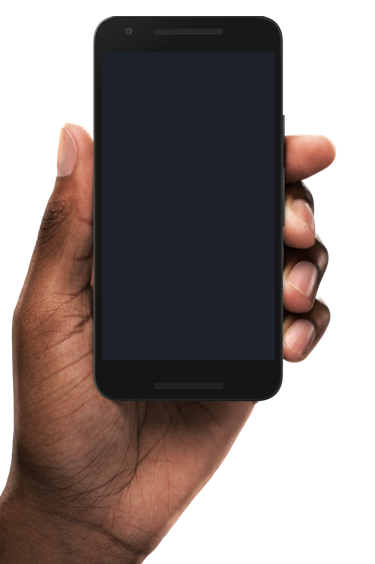
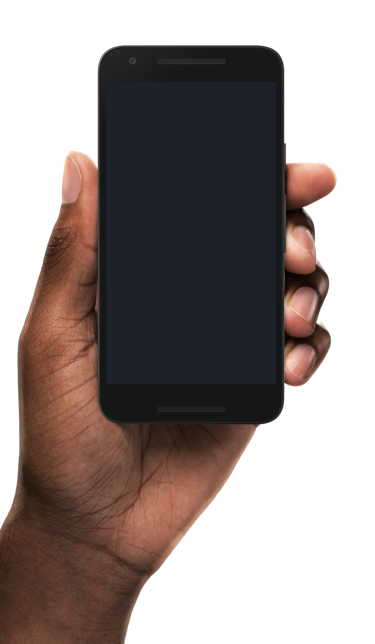
📱🖥 Fix mobile and desktop layouts

Changed region(s): [[0.0, 0.0301, 0.9093, 1.0], [0.0293, 0.9645, 0.2053, 1.0]]

diff --git a/css/main.css b/css/main.css
@@ -52,7 +52,6 @@ _:-ms-input-placeholder,
   font-family: 'Noto Sans Regular', -apple-system, BlinkMacSystemFont, 'Segoe UI', 'Roboto', 'Oxygen', 'Ubuntu', 'Cantarell', 'Fira Sans', 'Droid Sans', 'Helvetica Neue', sans-serif;
 }
 header,
-footer,
 .content {
   padding: 0 1.5rem;
 }
@@ -181,11 +180,14 @@ picture.hand {
 img {
   width: 100%;
   height: 100%;
-  -o-object-fit: contain;
-  object-fit: contain;
+  -o-object-fit: cover;
+  object-fit: cover;
 }
 .hand > img {
-  margin-top: 2vh;
+  margin: 0;
+  padding: 0;
+  -o-object-position: 0 40%;
+  object-position: 0 40%;
 }
 footer {
   -webkit-flex-shrink: 0.5;
@@ -197,9 +199,74 @@ footer > p {
   margin: 0;
 }
 .landing {
+  display: -webkit-box;
+  display: -webkit-flex;
+  display: -ms-flexbox;
+  display: flex;
+}
+.wrapper {
   height: 50vh;
 }
-.landing ~ footer {
+.landing > footer {
   height: 100vh;
   padding: 0;
+}
+/* Media Queries */
+@media (max-width: 20rem) {
+  .hand {
+    -o-object-fit: cover;
+    object-fit: cover;
+  }
+  .hand > img {
+    -o-object-position: 55% 0;
+    object-position: 55% 0;
+  }
+  .pseudo-button {
+    font-size: 0.75rem;
+  }
+}
+@media (max-height: 34rem) {
+  .hand > img {
+    -o-object-position: 55% -250%;
+    object-position: 55% -250%;
+  }
+}
+@media (min-width: 64rem) {
+  footer {
+    padding: 4rem 10vw 1.5rem;
+  }
+  .landing {
+    -webkit-box-orient: horizontal;
+    -webkit-box-direction: normal;
+    -webkit-flex-direction: row;
+    -ms-flex-direction: row;
+    flex-direction: row;
+    -webkit-box-pack: space-evenly;
+    -webkit-justify-content: space-evenly;
+    -ms-flex-pack: space-evenly;
+    justify-content: space-evenly;
+  }
+  .landing .wrapper {
+    -webkit-box-flex: 0;
+    -webkit-flex: 0 1 auto;
+    -ms-flex: 0 1 auto;
+    flex: 0 1 auto;
+    height: 100vh;
+    padding: 0;
+  }
+  .landing footer {
+    padding: 0;
+  }
+  .landing header,
+  .landing .content {
+    padding: 0 5vw;
+  }
+  header,
+  .content {
+    padding: 0 10vw;
+  }
+  .hand > img {
+    -o-object-position: 0 33%;
+    object-position: 0 33%;
+  }
 }

diff --git a/index.html b/index.html
@@ -48,13 +48,12 @@
 	<link rel="stylesheet" href="css/main.css">
 
 </head>
-<body>
+<body class="landing">
 	
-	<div class="wrapper landing">
+	<div class="wrapper">
 		<header>
 			<div class="menu">
 				<h1>Unit</h1>
-				<a href="../app" class="unit_logo filled"></a>
 			</div>
 		</header>
 	

diff --git a/app/index.html b/app/index.html
@@ -52,7 +52,7 @@
 	<div class="wrapper">
 		<header>
 			<div class="menu">
-				<a href="../" class="unit_logo"></a>
+				<a href="../" class="unit_logo filled"></a>
 				<a href="../setup" class="unit_setup"></a>
 			</div>
 		</header>
